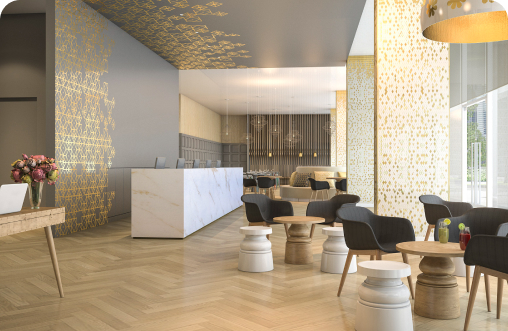
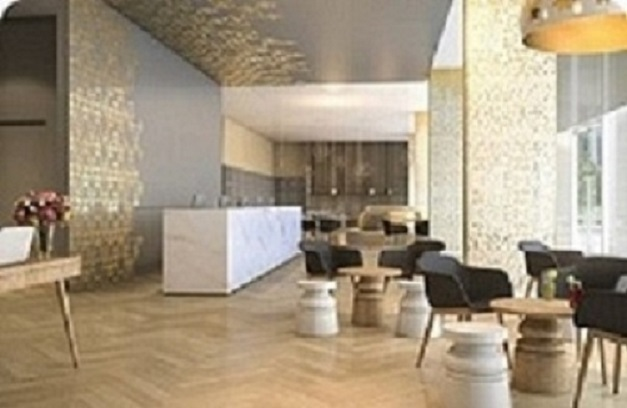
Tela Acomodações imagens redimensionadas (Arrumar tamanho dos panels)

diff --git a/HotelFazenda/src/main/java/visao/TelaDeAcomodacoes.java b/HotelFazenda/src/main/java/visao/TelaDeAcomodacoes.java
@@ -15,6 +15,10 @@ import javax.swing.GroupLayout.Alignment;
 import java.awt.Font;
 import javax.swing.JTextField;
 import javax.swing.JEditorPane;
+import javax.swing.SwingConstants;
+import java.awt.BorderLayout;
+import java.awt.FlowLayout;
+
 
 public class TelaDeAcomodacoes extends JFrame {
 
@@ -150,7 +154,7 @@ public class TelaDeAcomodacoes extends JFrame {
 		JPanel Principal = new JPanel();
 		Principal.setBackground(new Color(250, 250, 250));
 		contentPane.add(Principal, "cell 1 1,grow");
-		Principal.setLayout(new MigLayout("", "[100px:215.00px,grow][150px:171.00px,grow][180.00,grow]", "[44px][14px][14px][-1.00][237.00,grow][230.00,grow]"));
+		Principal.setLayout(new MigLayout("", "[][242.00px:n,grow][557.00]", "[44px][14px][14px][-1.00][237.00][230.00,grow]"));
 		
 		JLabel lblNewLabel_1 = new JLabel("Acomodações");
 		lblNewLabel_1.setFont(new Font("Tahoma", Font.PLAIN, 36));
@@ -164,16 +168,18 @@ public class TelaDeAcomodacoes extends JFrame {
 		
 		JPanel panel_8 = new JPanel();
 		Principal.add(panel_8, "cell 0 4,grow");
-		panel_8.setLayout(new MigLayout("", "[208px,grow]", "[14.00px,grow][-11.00px][8.00][][][][][][][]"));
+		panel_8.setLayout(new MigLayout("", "[388.00px:n:420px]", "[14.00px,grow][-11.00px][8.00][][][][][][][]"));
 		
 		JPanel panel_11 = new JPanel();
 		
-		panel_8.add(panel_11, "cell 0 0 1 8,grow");
-		panel_11.setLayout(null);
+		panel_8.add(panel_11, "cell 0 0 1 8,alignx left,growy");
+		panel_11.setLayout(new BorderLayout(0, 0));
 		
 		JLabel lblQuartoSimples = new JLabel("");
-		lblQuartoSimples.setBounds(0, 0, 281, 164);
+		lblQuartoSimples.setHorizontalAlignment(SwingConstants.LEFT);
 		lblQuartoSimples.setIcon(new ImageIcon(TelaDeAcomodacoes.class.getResource("/Imagens/QuartoSimples.jpg")));
+		
+		
 		panel_11.add(lblQuartoSimples);
 		
 		JLabel lblNewLabel_16 = new JLabel("Apartamento Standard");
@@ -185,13 +191,16 @@ public class TelaDeAcomodacoes extends JFrame {
 		
 		JPanel panel_9 = new JPanel();
 		Principal.add(panel_9, "cell 1 4,grow");
-		panel_9.setLayout(new MigLayout("", "[213px,grow]", "[25px,grow][14px][][][][][][][]"));
+		panel_9.setLayout(new MigLayout("", "[356.00px:n,grow]", "[25px,grow][14px][][][][][][][]"));
 		
 		JPanel panel_12 = new JPanel();
 		panel_9.add(panel_12, "cell 0 0 1 7,grow");
+		panel_12.setLayout(new BorderLayout(0, 0));
 		
-		JLabel lblNewLabel_13 = new JLabel("New label");
-		panel_12.add(lblNewLabel_13);
+		JLabel lblQuartoMediano = new JLabel("");
+		lblQuartoMediano.setIcon(new ImageIcon(TelaDeAcomodacoes.class.getResource("/Imagens/QuartoMedio.jpg")));
+		
+		panel_12.add(lblQuartoMediano);
 		
 		JLabel lblNewLabel_17 = new JLabel("Apartamento Master");
 		lblNewLabel_17.setFont(new Font("Tahoma", Font.PLAIN, 20));
@@ -202,13 +211,16 @@ public class TelaDeAcomodacoes extends JFrame {
 		
 		JPanel panel_10 = new JPanel();
 		Principal.add(panel_10, "cell 2 4,grow");
-		panel_10.setLayout(new MigLayout("", "[222px,grow]", "[25px,grow][14px][][][][][][][]"));
+		panel_10.setLayout(new MigLayout("", "[497.00px:n,grow,right]", "[25px,grow][14px][][][][][][][]"));
 		
 		JPanel panel_13 = new JPanel();
 		panel_10.add(panel_13, "cell 0 0 1 7,grow");
+		panel_13.setLayout(new BorderLayout(0, 0));
 		
-		JLabel lblNewLabel_15 = new JLabel("New label");
-		panel_13.add(lblNewLabel_15);
+		JLabel lblQuartoBom = new JLabel("");
+		lblQuartoBom.setHorizontalAlignment(SwingConstants.LEFT);
+		lblQuartoBom.setIcon(new ImageIcon(TelaDeAcomodacoes.class.getResource("/Imagens/QuartoBom.jpg")));
+		panel_13.add(lblQuartoBom);
 		
 		JLabel lblNewLabel_18 = new JLabel("Apartamento Deluxe");
 		lblNewLabel_18.setFont(new Font("Tahoma", Font.PLAIN, 20));
